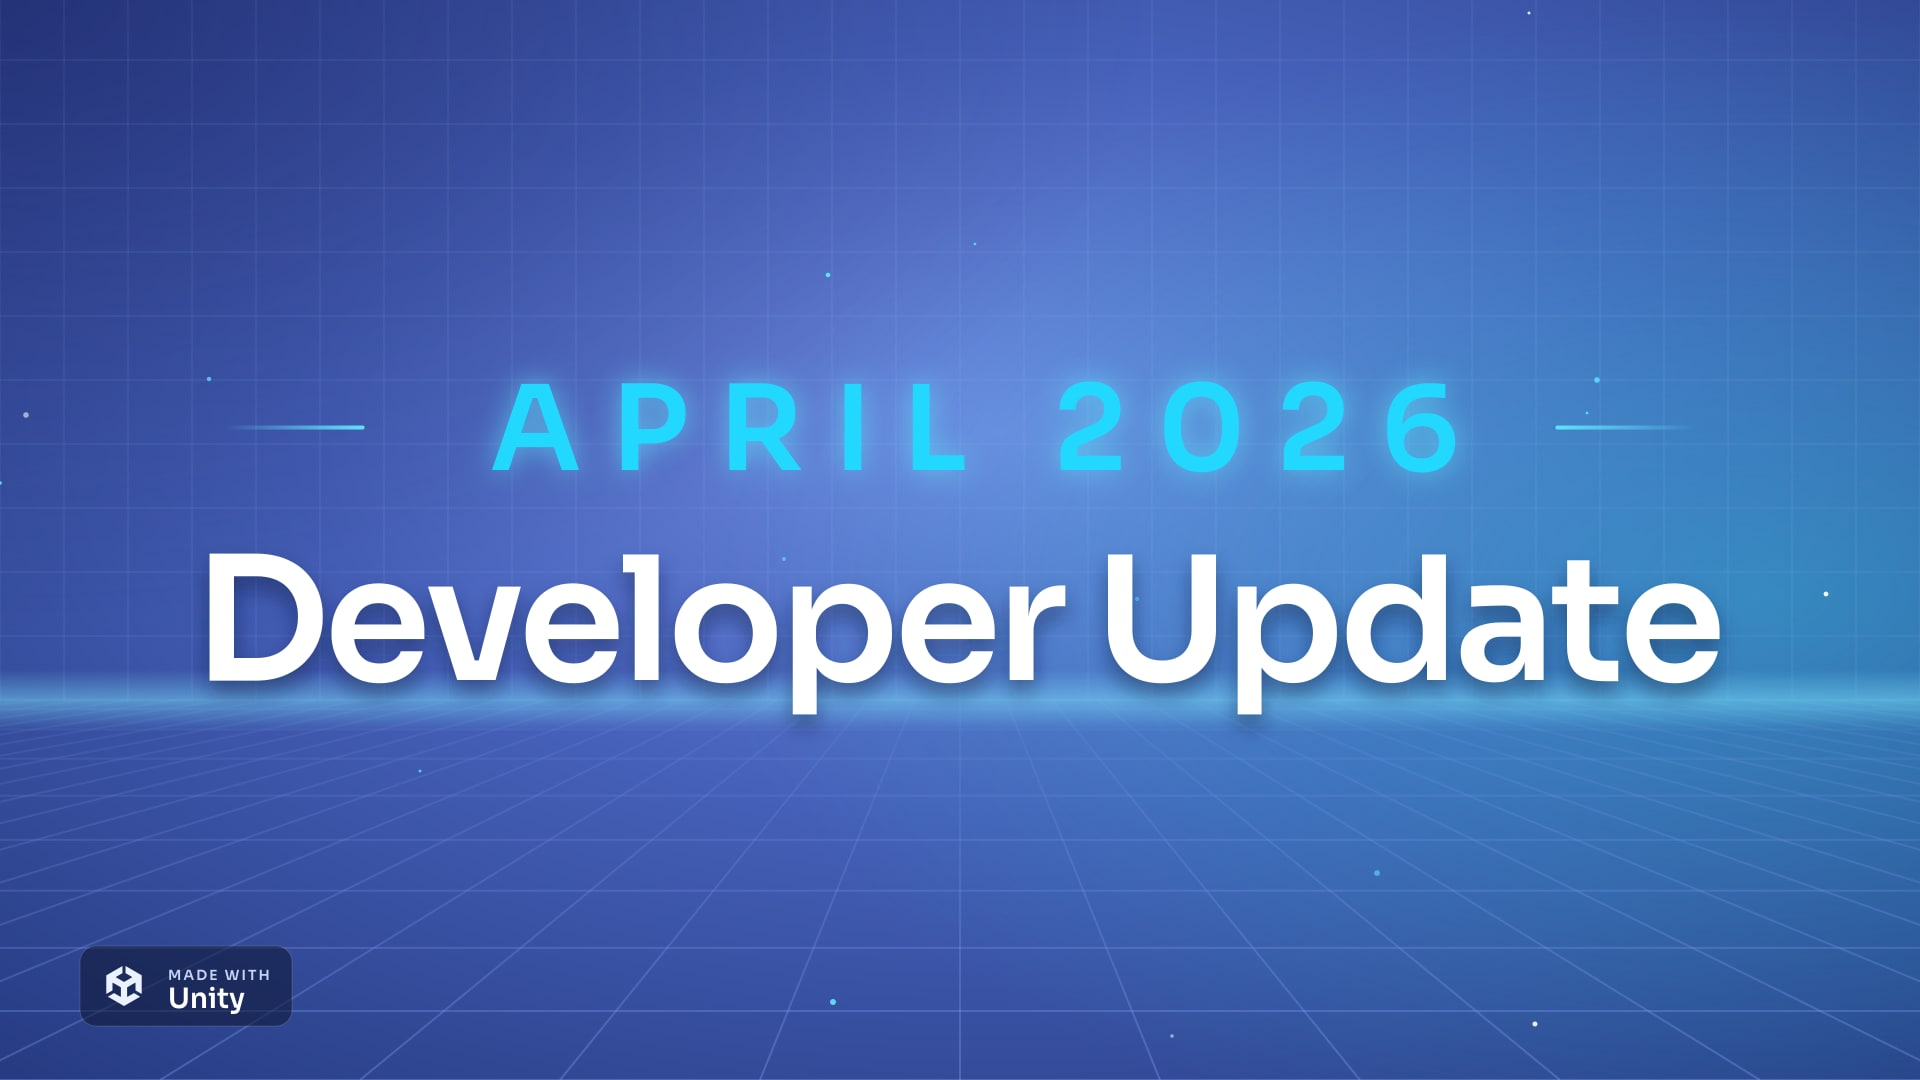
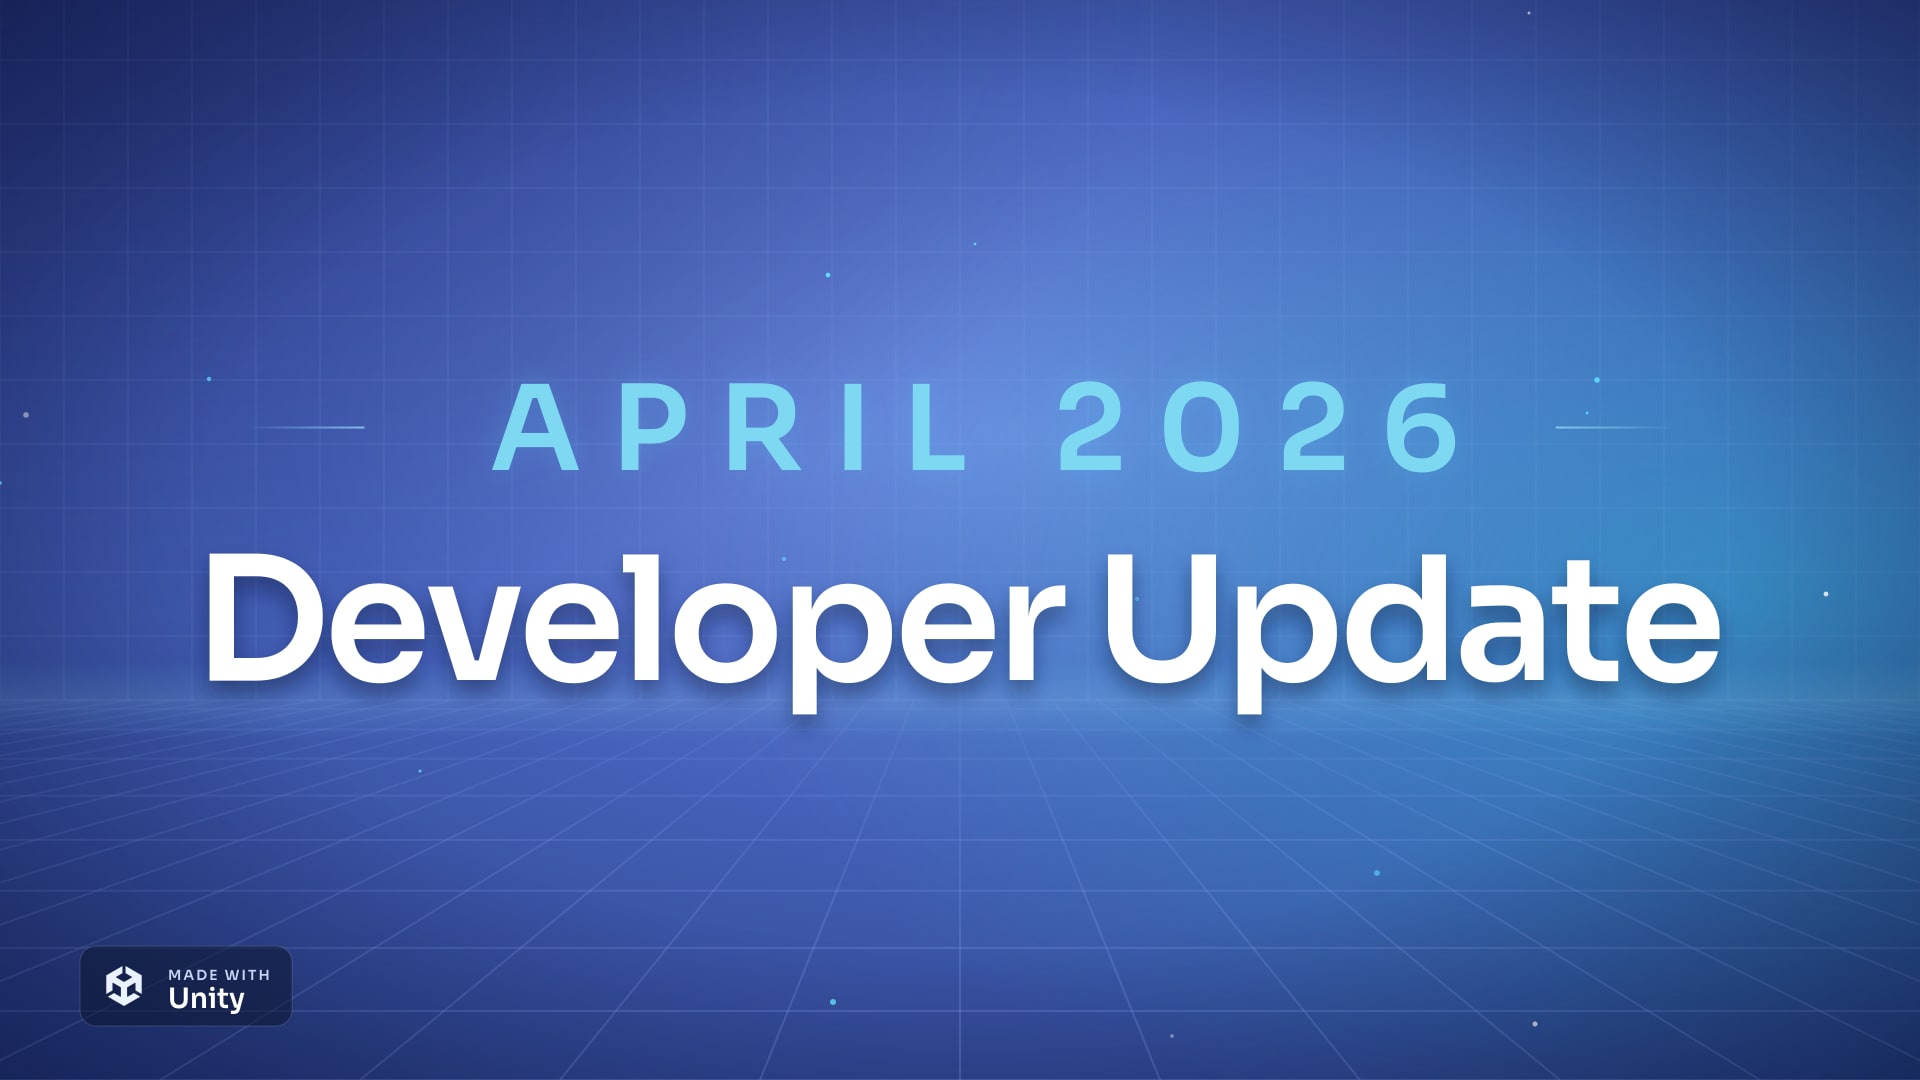
feat(projects): new wide and square covers; calmer devlog covers
Six projects get the generated 16:9 and 1:1 covers (WebP); the home
strip uses the square ones and project cards switch to 16:9 so the
covers aren't cropped. Inner frames on Stack Runner and Still are
trimmed. Devlog covers get a softer horizon, a calmer date and a light
vignette; Meet Kaan goes back to the dark cover with the portrait.

Claude-Session: https://claude.ai/code/session_019DcBCuqzMDAtmg72CdH3Qh

diff --git a/CLAUDE.md b/CLAUDE.md
@@ -102,9 +102,9 @@ These come from mistakes made in earlier sessions. Follow them in every session,
 
 - **Projects** (`src/content/projects/`, all with `-tr` mirrors): brick-game (Mobile, `published: true`, on Google Play; per-locale Play Store screenshots with `-tr` suffix), draw-rush, flex-hit, orbs-of-the-power, patimania (Web/SaaS, pre-launch, `featured`, no trailer), stack-runner, still.
 - **Blog** (`src/content/blog/`): welcome, april-2026-developer-update (mdx), may-2026-developer-update (mdx), each with `-tr`.
-- Adding a project: `<slug>.md` + `<slug>-tr.md`, `src/assets/projects/<slug>/cover.*` + `gallery/`. Set `category: product` for products (wide card on /projects) or leave the default `game`; `coverPosition` crops the cover in tight tiles. Covers are 16:9; an optional `coverSquare` (1:1) is used by the square cards of the home strip, otherwise the wide cover is shown whole over a blurred copy.
+- Adding a project: `<slug>.md` + `<slug>-tr.md`, `src/assets/projects/<slug>/cover.*` + `gallery/`. Set `category: product` for products (wide card on /projects) or leave the default `game`; `coverPosition` crops the cover in tight tiles. Covers are `cover-wide.webp` (16:9, 1920×1080) as `coverImage` and `cover-square.webp` (1:1, 1440×1440) as `coverSquare` for the square cards of the home strip; without `coverSquare` the wide cover is shown whole over a blurred copy (Brick Game keeps its own `cover.png`). The old `cover.png` files of the games stay in their galleries as real screenshots.
 - Adding a post: `<slug>.{md,mdx}` + `-tr`, hero image in `src/assets/blog/`; in MDX use `import LiteYouTube from '@components/LiteYouTube.astro'`.
-- Blog covers are one family made by `scripts/blog-cover.mjs` (light blue field, floor grid, cyan date over a centred white title, after the original May 2026 cover; Kaan wants them plain) (run `node scripts/install-og-fonts.mjs` first): a monthly devlog is `node scripts/blog-cover.mjs devlog "JUNE 2026" src/assets/blog/june-2026.jpg` (only the date changes); `intro` makes the Meet Kaan cover.
+- Devlog covers come from `scripts/blog-cover.mjs` (run `node scripts/install-og-fonts.mjs` first): light blue field, floor grid, soft vignette, calm cyan date over a centred white "Developer Update", after the original May 2026 cover; only the date changes: `node scripts/blog-cover.mjs devlog "JUNE 2026" src/assets/blog/june-2026.jpg`. The Meet Kaan cover (`src/assets/blog/meet-kaan.jpg`, dark, with the cut-out portrait) is a one-off; Kaan wants it kept as is.
 
 ## Writing rules
 

diff --git a/src/content/projects/flex-hit-tr.md b/src/content/projects/flex-hit-tr.md
@@ -8,7 +8,8 @@ role: "Tek geliştirici (deneyimli bir tasarımcıyla günlük iş birliği)"
 description: "Oynanış hissinin tamamen Unity Physics ustalığına bağlı olduğu bir VR casual oyun. Erişilebilirlik ve kısa oturumlar düşünülerek tasarlandı."
 techStack: ["Unity", "Unity XR", "C#", "Unity Physics"]
 links: {}
-coverImage: "../../assets/projects/flex-hit/cover.png"
+coverImage: "../../assets/projects/flex-hit/cover-wide.webp"
+coverSquare: "../../assets/projects/flex-hit/cover-square.webp"
 gallery:
   - "../../assets/projects/flex-hit/cover.png"
   - "../../assets/projects/flex-hit/gallery/01.png"

diff --git a/src/content/projects/flex-hit.md b/src/content/projects/flex-hit.md
@@ -8,7 +8,8 @@ role: "Solo developer (daily collaboration with experienced designer)"
 description: "A VR casual game where Unity Physics mastery was central to the gameplay feel. Designed for accessibility and quick play sessions."
 techStack: ["Unity", "Unity XR", "C#", "Unity Physics"]
 links: {}
-coverImage: "../../assets/projects/flex-hit/cover.png"
+coverImage: "../../assets/projects/flex-hit/cover-wide.webp"
+coverSquare: "../../assets/projects/flex-hit/cover-square.webp"
 gallery:
   - "../../assets/projects/flex-hit/cover.png"
   - "../../assets/projects/flex-hit/gallery/01.png"

diff --git a/src/content/projects/orbs-of-the-power-tr.md b/src/content/projects/orbs-of-the-power-tr.md
@@ -9,7 +9,8 @@ description: "Beş farklı orb ve dinamik dövüş mekanikleri etrafına inşa e
 techStack: ["Unity", "C#", "ECS-style architecture"]
 links:
   github: "https://github.com/KaanEkimoz/Orbs-of-The-Power"
-coverImage: "../../assets/projects/orbs-of-the-power/cover.png"
+coverImage: "../../assets/projects/orbs-of-the-power/cover-wide.webp"
+coverSquare: "../../assets/projects/orbs-of-the-power/cover-square.webp"
 gallery:
   - "../../assets/projects/orbs-of-the-power/cover.png"
   - "../../assets/projects/orbs-of-the-power/gallery/01.png"

diff --git a/src/content/projects/orbs-of-the-power.md b/src/content/projects/orbs-of-the-power.md
@@ -9,7 +9,8 @@ description: "A modular roguelike action game built around five unique orbs and 
 techStack: ["Unity", "C#", "ECS-style architecture"]
 links:
   github: "https://github.com/KaanEkimoz/Orbs-of-The-Power"
-coverImage: "../../assets/projects/orbs-of-the-power/cover.png"
+coverImage: "../../assets/projects/orbs-of-the-power/cover-wide.webp"
+coverSquare: "../../assets/projects/orbs-of-the-power/cover-square.webp"
 gallery:
   - "../../assets/projects/orbs-of-the-power/cover.png"
   - "../../assets/projects/orbs-of-the-power/gallery/01.png"

diff --git a/src/content/projects/still-tr.md b/src/content/projects/still-tr.md
@@ -8,7 +8,8 @@ role: "2 geliştirici + 1 sanatçı ekibi"
 description: "Bir game jam için 3 günde yapılmış mini bir bulmaca mobil oyunu. Birden fazla kısa bulmaca içeren, kompakt ve odaklı bir oynanış."
 techStack: ["Unity", "C#"]
 links: {}
-coverImage: "../../assets/projects/still/cover.png"
+coverImage: "../../assets/projects/still/cover-wide.webp"
+coverSquare: "../../assets/projects/still/cover-square.webp"
 gallery:
   - "../../assets/projects/still/cover.png"
   - "../../assets/projects/still/gallery/01.png"

diff --git a/src/content/projects/stack-runner-tr.md b/src/content/projects/stack-runner-tr.md
@@ -9,7 +9,8 @@ description: "Stackball mekaniğini endless runner oynanışıyla birleştiren b
 techStack: ["Unity", "C#"]
 links:
   github: "https://github.com/KaanEkimoz/Stackball-Runner"
-coverImage: "../../assets/projects/stack-runner/cover.png"
+coverImage: "../../assets/projects/stack-runner/cover-wide.webp"
+coverSquare: "../../assets/projects/stack-runner/cover-square.webp"
 gallery:
   - "../../assets/projects/stack-runner/cover.png"
   - "../../assets/projects/stack-runner/gallery/01.png"

diff --git a/src/content/projects/stack-runner.md b/src/content/projects/stack-runner.md
@@ -9,7 +9,8 @@ description: "Combines Stackball mechanics with endless runner gameplay. Built a
 techStack: ["Unity", "C#"]
 links:
   github: "https://github.com/KaanEkimoz/Stackball-Runner"
-coverImage: "../../assets/projects/stack-runner/cover.png"
+coverImage: "../../assets/projects/stack-runner/cover-wide.webp"
+coverSquare: "../../assets/projects/stack-runner/cover-square.webp"
 gallery:
   - "../../assets/projects/stack-runner/cover.png"
   - "../../assets/projects/stack-runner/gallery/01.png"

diff --git a/src/content/projects/still.md b/src/content/projects/still.md
@@ -8,7 +8,8 @@ role: "Team of 2 developers + 1 artist"
 description: "A mini-puzzle mobile game built in 3 days for a game jam. Compact, focused gameplay with multiple short puzzles."
 techStack: ["Unity", "C#"]
 links: {}
-coverImage: "../../assets/projects/still/cover.png"
+coverImage: "../../assets/projects/still/cover-wide.webp"
+coverSquare: "../../assets/projects/still/cover-square.webp"
 gallery:
   - "../../assets/projects/still/cover.png"
   - "../../assets/projects/still/gallery/01.png"

diff --git a/src/content/projects/draw-rush-tr.md b/src/content/projects/draw-rush-tr.md
@@ -9,7 +9,8 @@ description: "208 Studios'ta geliştirilen, çizim tabanlı hiper-casual bir mob
 techStack: ["Unity", "C#"]
 links:
   github: "https://github.com/KaanEkimoz/DrawRush-HyperCasual"
-coverImage: "../../assets/projects/draw-rush/cover.png"
+coverImage: "../../assets/projects/draw-rush/cover-wide.webp"
+coverSquare: "../../assets/projects/draw-rush/cover-square.webp"
 gallery:
   - "../../assets/projects/draw-rush/cover.png"
   - "../../assets/projects/draw-rush/gallery/01.png"

diff --git a/src/content/projects/draw-rush.md b/src/content/projects/draw-rush.md
@@ -9,7 +9,8 @@ description: "A hyper-casual mobile drawing puzzle game developed at 208 Studios
 techStack: ["Unity", "C#"]
 links:
   github: "https://github.com/KaanEkimoz/DrawRush-HyperCasual"
-coverImage: "../../assets/projects/draw-rush/cover.png"
+coverImage: "../../assets/projects/draw-rush/cover-wide.webp"
+coverSquare: "../../assets/projects/draw-rush/cover-square.webp"
 gallery:
   - "../../assets/projects/draw-rush/cover.png"
   - "../../assets/projects/draw-rush/gallery/01.png"

diff --git a/src/content/projects/patimania-tr.md b/src/content/projects/patimania-tr.md
@@ -23,7 +23,8 @@ links:
 featured: true
 category: product
 published: false
-coverImage: "../../assets/projects/patimania/cover.jpg"
+coverImage: "../../assets/projects/patimania/cover-wide.webp"
+coverSquare: "../../assets/projects/patimania/cover-square.webp"
 gallery:
   - "../../assets/projects/patimania/gallery/01-home.png"
   - "../../assets/projects/patimania/gallery/02-search.png"
